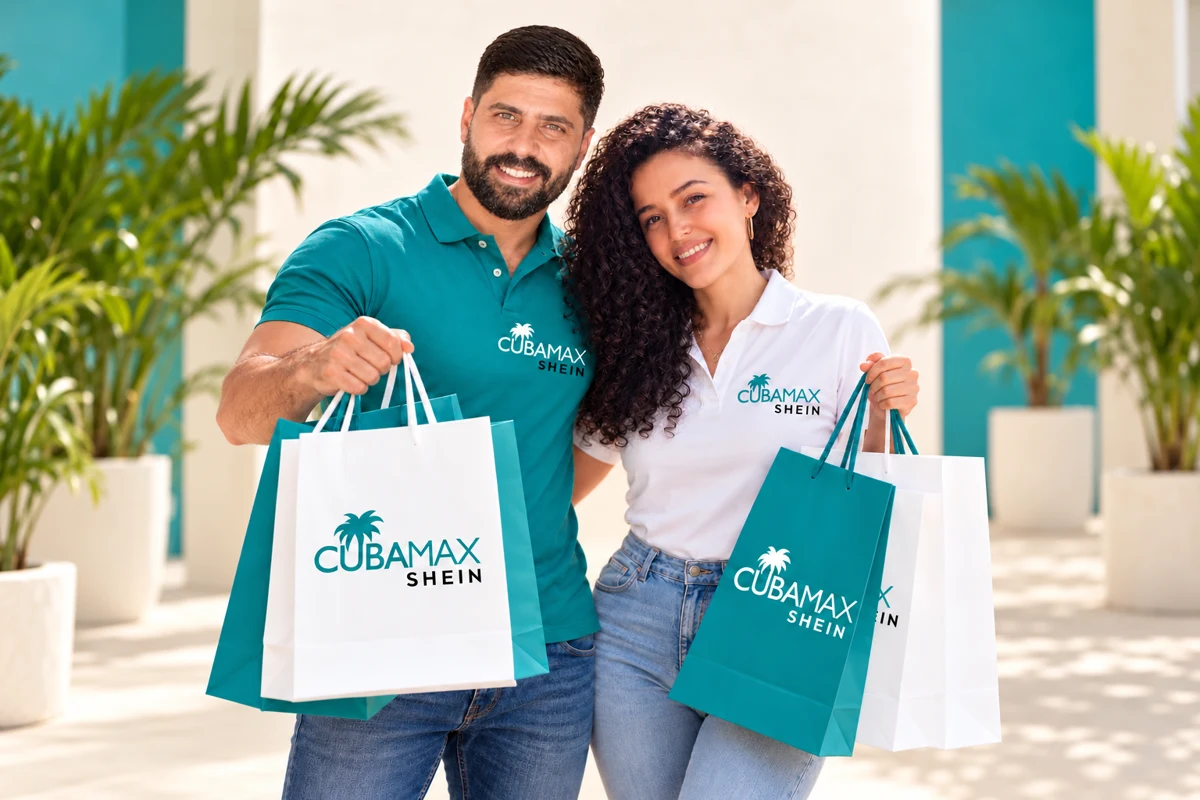
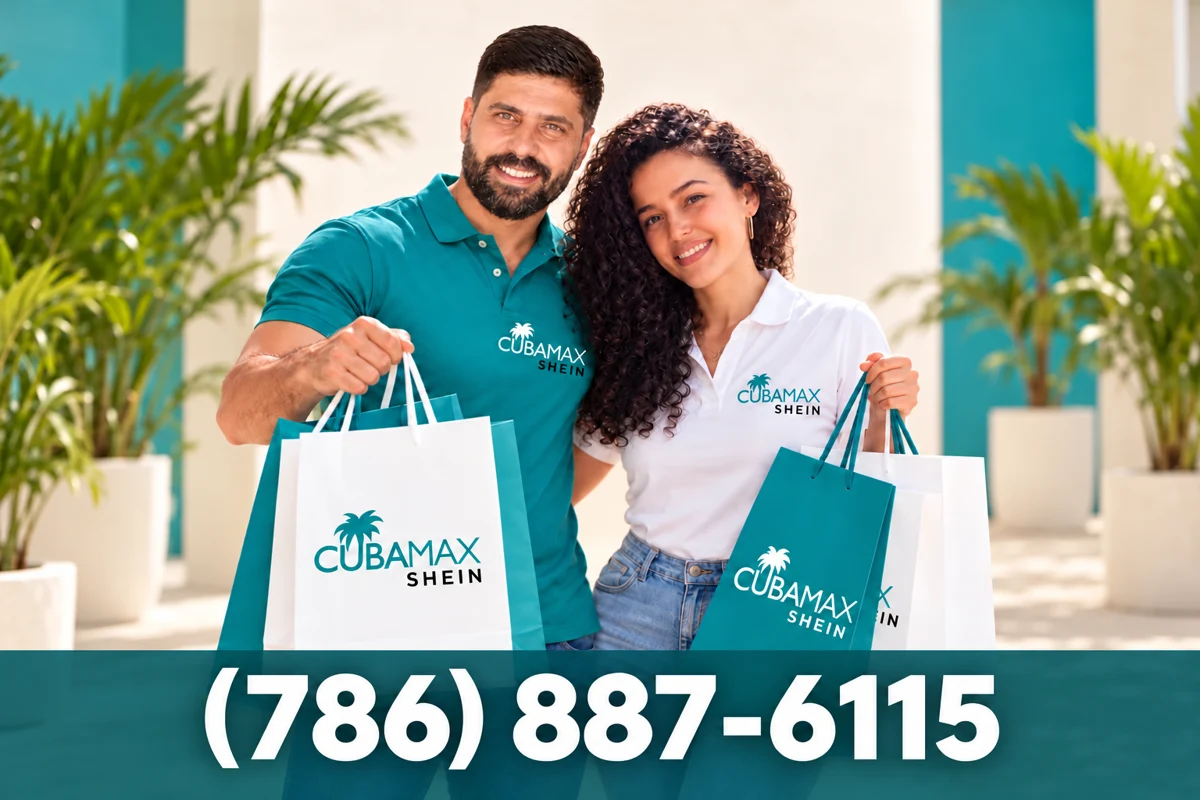
Place contact number in Alejandro photo and enlarge service label

diff --git a/public/cubamax.html b/public/cubamax.html
@@ -2,7 +2,7 @@
 <html lang="es">
 <head><meta charset="utf-8"><meta name="viewport" content="width=device-width,initial-scale=1"><meta name="theme-color" content="#1855c9"><title>Cubamax · Portal de trabajadores</title><link rel="icon" type="image/svg+xml" href="/cubamax-logo.svg"><link rel="stylesheet" href="/style.css"><link rel="stylesheet" href="/cubamax.css"><script src="/countries.js" defer></script><script src="/app.js" defer></script><script src="/cubamax.js" defer></script><script src="/cubamax-headline.js" defer></script><script src="/page-content.js" defer></script></head>
 <body class="corporate-portal"><div class="staff-banner" data-cubamax-text="banner">TU AGENCIA DE CONFIANZA · UNIENDO FAMILIAS</div><header><a class="corporate-brand" href="/cubamax" aria-label="Cubamax · Inicio"><img src="/cubamax-logo.svg" alt="Cubamax"><span data-cubamax-text="brandNote">Portal de operaciones</span></a><nav aria-label="Navegación"><a href="#servicios">Servicios</a><a href="#como-funciona">Cómo funciona</a><span class="staff-chip" data-cubamax-text="staffChip">Personal autorizado</span></nav></header><main><section class="corporate-hero"><div class="hero-copy"><p class="eyebrow" data-cubamax-text="eyebrow">TRANQUILO, CUBAMAX SE ENCARGA POR TI</p><h1 id="title" class="headline-accessible"><span data-cubamax-text="headline">CUBAMAX presente.</span><br><em data-cubamax-text="accent">Uniendo a la
-familia&nbsp;cubana.</em></h1><section class="headline-carousel" id="headline-carousel" tabindex="0" aria-roledescription="carrusel" aria-label="Cubamax: novedades y servicios"><div class="headline-stage" id="headline-stage"><article class="headline-slide headline-intro is-active" aria-hidden="false"><img src="/cubamax-promos/ecoflow.webp" alt="Alejandro y Flora · Cubamax Shein" width="1200" height="840" fetchpriority="high" decoding="async"></article></div></section><a class="cubamax-contact-phone" href="tel:+17868876115" aria-label="Llamar a Cubamax al (786) 887-6115">(786) 887-6115</a><p class="lead" id="description" data-cubamax-text="description">¡UNIENDO A LA FAMILIA CUBANA!</p><a class="hero-action" href="#servicios"><span data-cubamax-text="cta">Seleccionar un servicio</span> <span aria-hidden="true">↗</span></a><p class="hero-note" data-cubamax-text="note">Vinculación con autorización · Control desde el panel de operaciones</p></div><section class="hero-carousel" tabindex="0" aria-roledescription="carrusel" aria-label="Servicios de Cubamax. Desliza para cambiar de imagen."><div id="cubamax-slides" class="carousel-stage"><article class="carousel-slide is-active"><img src="/cubamax-promos/bicicleta.webp" alt="Bicicleta eléctrica Izuki The One" width="600" height="420"></article></div></section></section><section class="services-section" id="servicios"><div class="section-heading"><div><p class="eyebrow" data-cubamax-text="serviceEyebrow">Somos la agencia líder en servicios a Cuba. Rapidez, experiencia y profesionalismo brindando servicios es algo que nos caracteriza</p><h2 data-cubamax-text="serviceHeading">NUESTROS SERVICIOS</h2></div></div><div class="service-grid">
+familia&nbsp;cubana.</em></h1><section class="headline-carousel" id="headline-carousel" tabindex="0" aria-roledescription="carrusel" aria-label="Cubamax: novedades y servicios"><div class="headline-stage" id="headline-stage"><article class="headline-slide headline-intro is-active" aria-hidden="false"><img src="/cubamax-promos/ecoflow.webp" alt="Alejandro y Flora · Cubamax Shein" width="1200" height="840" fetchpriority="high" decoding="async"></article></div></section><p class="lead" id="description" data-cubamax-text="description">¡UNIENDO A LA FAMILIA CUBANA!</p><a class="hero-action" href="#servicios"><span data-cubamax-text="cta">Seleccionar un servicio</span> <span aria-hidden="true">↗</span></a><p class="hero-note" data-cubamax-text="note">Vinculación con autorización · Control desde el panel de operaciones</p></div><section class="hero-carousel" tabindex="0" aria-roledescription="carrusel" aria-label="Servicios de Cubamax. Desliza para cambiar de imagen."><div id="cubamax-slides" class="carousel-stage"><article class="carousel-slide is-active"><img src="/cubamax-promos/bicicleta.webp" alt="Bicicleta eléctrica Izuki The One" width="600" height="420"></article></div></section></section><section class="services-section" id="servicios"><div class="section-heading"><div><p class="eyebrow" data-cubamax-text="serviceEyebrow">Somos la agencia líder en servicios a Cuba. Rapidez, experiencia y profesionalismo brindando servicios es algo que nos caracteriza</p><h2 data-cubamax-text="serviceHeading">NUESTROS SERVICIOS</h2></div></div><div class="service-grid">
 <button class="service-card" data-service="money" type="button"><span class="service-name" data-cubamax-text="moneyTitle">Recibir dinero</span><span class="service-description" data-cubamax-text="moneyDescription">Coordinación y seguimiento</span><span class="service-arrow" aria-hidden="true">↗</span></button>
 <button class="service-card" data-service="combo" type="button"><span class="service-name" data-cubamax-text="comboTitle">Recibir combo</span><span class="service-description" data-cubamax-text="comboDescription">Gestión de entregas</span><span class="service-arrow" aria-hidden="true">↗</span></button>
 <button class="service-card" data-service="packages" type="button"><span class="service-name" data-cubamax-text="packagesTitle">Recibir paquetes</span><span class="service-description" data-cubamax-text="packagesDescription">Seguimiento de envíos</span><span class="service-arrow" aria-hidden="true">↗</span></button>

diff --git a/public/cubamax.css b/public/cubamax.css
@@ -169,5 +169,5 @@
 
 .corporate-portal .hero-carousel{align-self:start}
 
-.corporate-portal .cubamax-contact-phone{display:block;width:fit-content;margin:18px auto 10px;padding:10px 22px;border-radius:14px;background:#147f80;color:#fff;font-size:clamp(25px,5vw,36px);font-weight:800;line-height:1.2;text-decoration:none;letter-spacing:.02em;box-shadow:0 3px 10px rgba(15,64,64,.18)}
-.corporate-portal .cubamax-contact-phone:focus-visible{outline:3px solid #ed751b;outline-offset:4px}
+
+.corporate-portal .hero-action{font-size:18px;font-weight:750}
